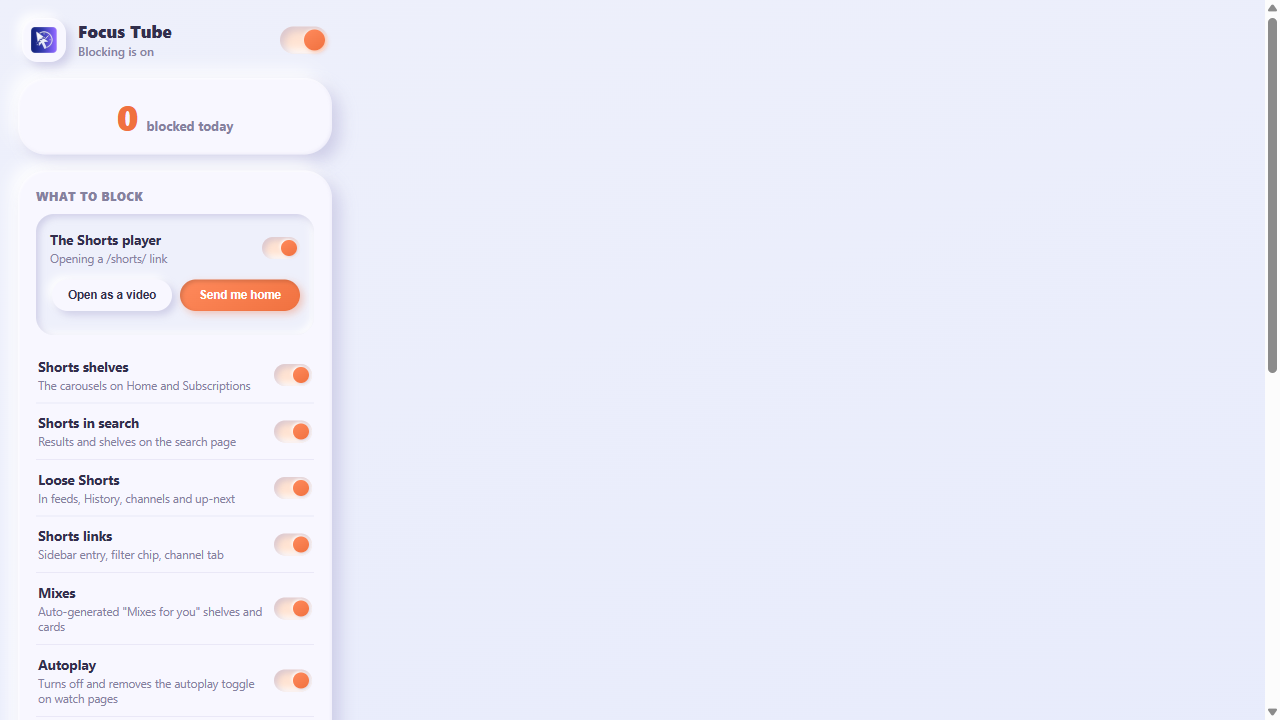
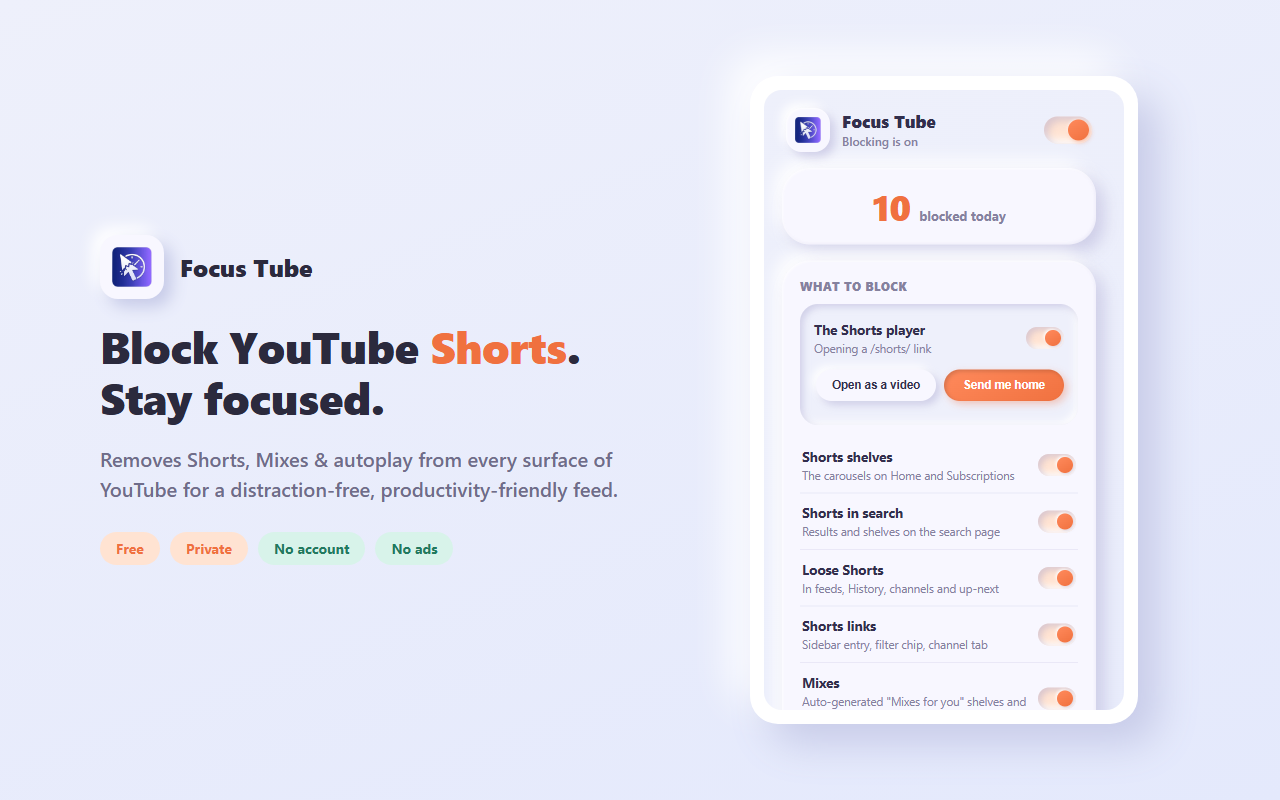
Rebuild store assets to match dashboard's exact size/format spec
Dashboard requires 1280x800 (screenshots), 440x280 (small promo tile),
and 1400x560 (marquee promo tile), all 24-bit PNG with no alpha
channel. Previous captures were 1280x720 or had an alpha channel, and
promo tiles didn't exist yet.

- Re-shot youtube-search.png/youtube-watch.png at the correct 1280x800
  viewport instead of cropping after the fact.
- Rebuilt popup.png as a proper branded feature screenshot: the real
  popup (captured live from the loaded extension) composited onto the
  brand gradient with headline copy, instead of a raw UI screenshot.
- Flattened youtube-home.png's alpha channel (content unchanged).
- Generated promo-small.png and promo-marquee.png from an HTML
  template using popup.css's actual palette, rendered at exact target
  size via Playwright — no manual resizing.

diff --git a/store-assets/README.md b/store-assets/README.md
@@ -1,22 +1,42 @@
 # Store assets
 
-Screenshots for the Chrome Web Store listing — see the repo README's
-"Publishing to the Chrome Web Store" section for context.
+Assets for the Chrome Web Store listing — see the repo README's
+"Publishing to the Chrome Web Store" section for context. All files
+below are 24-bit PNG (no alpha channel) at the exact pixel dimensions
+the dashboard requires.
 
-- `popup.png` — the extension popup, all toggles on. Good as-is for the
-  listing.
-- `youtube-search.png` — logged-out search results for "news" with 0
-  visible `/shorts/` links. Good as-is for the listing.
-- `youtube-watch.png` — logged-out watch page with 0 visible `/shorts/`
-  links in up-next and the Autoplay toggle fully hidden. Good as-is for
-  the listing.
-- `youtube-home.png` — signed-in home feed, dark theme, no Shorts shelf
-  and no Mixes shelf anywhere in the grid or filter chips. Cropped from
-  a 2552x1332 source to the store's required 1280x800 (16:10) ratio;
-  the crop was centered, which trims the YouTube logo and account icons
-  off the top edges. Still clearly reads as YouTube and clearly shows
-  the blocking working — usable as-is. A left-aligned crop that keeps
-  the logo would look cleaner if this ever gets redone from a fresh
-  screenshot.
+## Screenshots (1280x800, up to 5, at least 1 required)
 
-All four are ready to upload for submission.
+- `popup.png` — branded feature screenshot: the real popup (captured
+  live from the loaded extension) composed on a card next to headline
+  copy and feature pills.
+- `youtube-search.png` — live search results for "news", signed out —
+  0 visible `/shorts/` links.
+- `youtube-watch.png` — live watch page, signed out — 0 visible
+  `/shorts/` links in up-next, Autoplay toggle fully hidden.
+- `youtube-home.png` — signed-in home feed, dark theme — no Shorts
+  shelf, no Mixes shelf anywhere in the grid or filter chips.
+
+## Small promo tile (440x280)
+
+- `promo-small.png` — icon + wordmark + tagline on the popup's brand
+  gradient. Optional in the dashboard but included since it was easy
+  to generate from the same template as the marquee tile.
+
+## Marquee promo tile (1400x560)
+
+- `promo-marquee.png` — icon + wordmark + one-line pitch + feature
+  pills (Free / Private / No account / No ads), brand gradient
+  background.
+
+All six are ready to upload for submission as-is.
+
+## Regenerating
+
+The promo tiles and the branded popup screenshot are generated from
+HTML templates (inline SVG-free, brand colors pulled from `popup.css`)
+rendered with Playwright at the exact target pixel size, so there's no
+manual cropping/resizing step. Re-run the same approach if the popup
+UI or brand palette changes later — capture the real popup via the
+loaded extension, then composite it into the HTML template rather than
+hand-editing these PNGs directly.

diff --git a/STORE_LISTING.md b/STORE_LISTING.md
@@ -130,10 +130,10 @@ https://github.com/bommireddy30/focus-tube/blob/main/PRIVACY.md
 (Or a GitHub Pages URL if you'd rather it render as a plain webpage
 instead of a GitHub markdown file — see README for the one-time setup.)
 
-## Screenshots (1280x800 or 640x400, at least 1, up to 5)
+## Screenshots (1280x800, at least 1, up to 5)
 
-Ready in `store-assets/` — see that folder's README for details on
-each:
+Ready in `store-assets/` as 24-bit PNG, no alpha — see that folder's
+README for details on each:
 - `popup.png`
 - `youtube-search.png`
 - `youtube-watch.png`
@@ -143,7 +143,10 @@ Optional extras if you want more than the required minimum of 1: the
 Keywords card with example keywords added, or Calm Mode's recolored UI
 on a watch page (neither captured yet).
 
-## Promo tile (optional, 440x280)
+## Small promo tile (440x280)
 
-Not included — simple version: extension icon + "Focus Tube" wordmark
-on the popup's pastel gradient background (see `--bg` in `popup.css`).
+Ready: `store-assets/promo-small.png`.
+
+## Marquee promo tile (1400x560)
+
+Ready: `store-assets/promo-marquee.png`.
